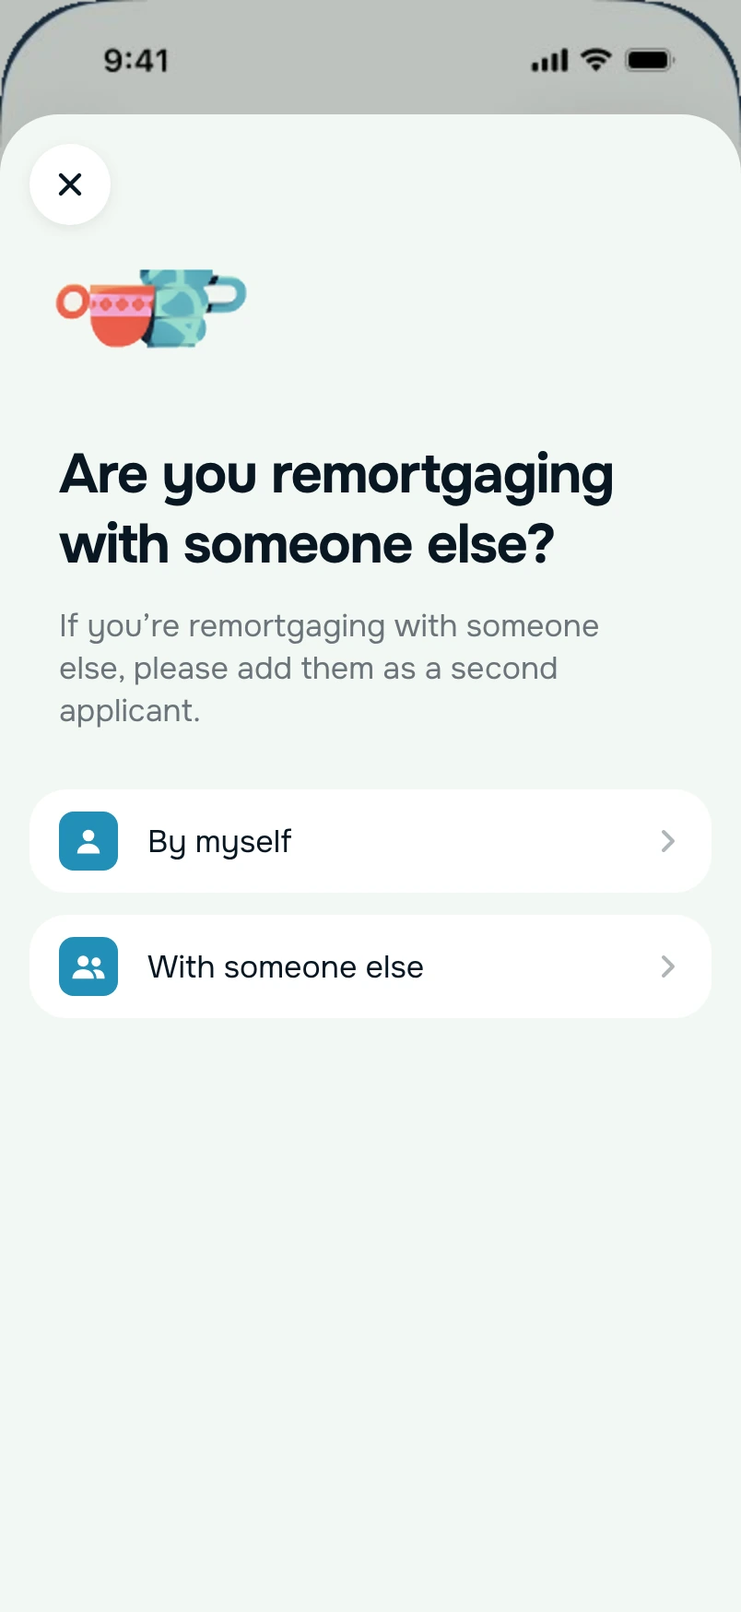
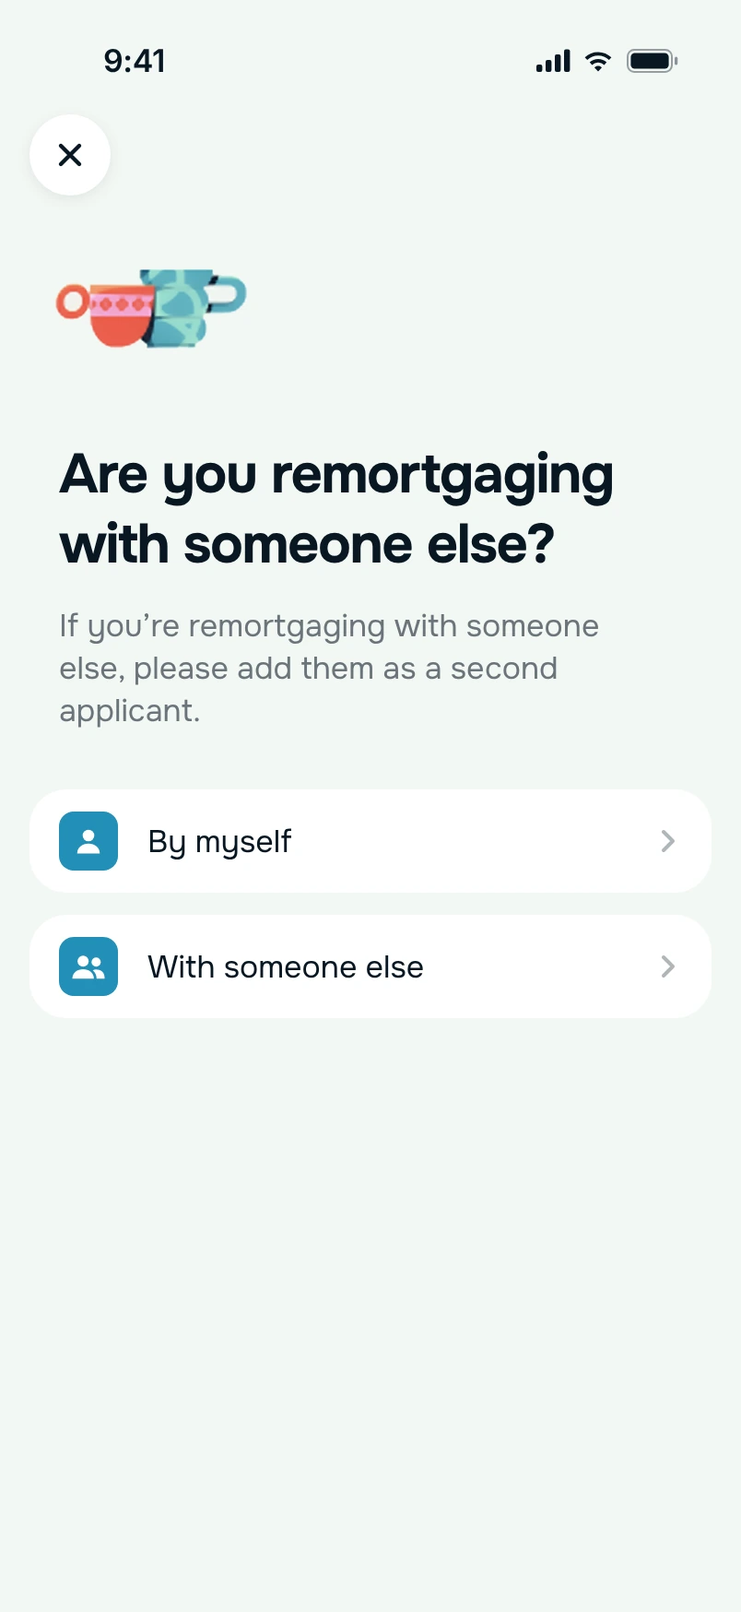
Remortgage deck: slide 9 onboarding screens full screen, no modal
Claude-Session: https://claude.ai/code/session_019ui8k763ghSzq4U6arn5bM

Changed region(s): [[0.0, 0.0, 1.0, 0.1236]]

diff --git a/remortgage-presentation/present.html b/remortgage-presentation/present.html
@@ -9,11 +9,11 @@
 <link rel="preconnect" href="https://fonts.googleapis.com">
 <link rel="preconnect" href="https://fonts.gstatic.com" crossorigin>
 <link href="https://fonts.googleapis.com/css2?family=DM+Sans:opsz,wght@9..40,400;9..40,500;9..40,600;9..40,700;9..40,800&family=Fragment+Mono&display=swap" rel="stylesheet">
-<link rel="stylesheet" href="styles.css?v=197">
-<link rel="stylesheet" href="deck.css?v=197">
-<link rel="stylesheet" href="monzo.css?v=197">
+<link rel="stylesheet" href="styles.css?v=198">
+<link rel="stylesheet" href="deck.css?v=198">
+<link rel="stylesheet" href="monzo.css?v=198">
 <link rel="preconnect" href="https://images.ctfassets.net">
-<script src="present.js?v=197" defer></script>
+<script src="present.js?v=198" defer></script>
 <style>
 body.present{--bar:52px;background:#112231;grid-template-rows:minmax(0,1fr) auto;height:100svh;min-height:0;overflow:hidden}
 .present .topbar,.present .slide-caption,.present .arrow,.present .notes-bottom,.present .notes-sheet{display:none!important}
@@ -110,7 +110,7 @@ body.present{--bar:52px;background:#112231;grid-template-rows:minmax(0,1fr) auto
 <div class="vr" data-vr><i class="vr-glow" aria-hidden="true"></i><button class="vr-ph" type="button" style="--i:0" data-tap="" aria-label="Screen 1 of 10: Your home: your deal ends in 6 months, find a new deal"><span class="vr-rise"><span class="vr-dev"><span class="bz"><span class="bz-screen"><span class="vr-st"><span class="vr-sc" data-d="1"><img class="bz-anim vr-base" src="assets/img/vis-01.webp?v=1" alt="Your home: your deal ends in 6 months, find a new deal" decoding="async"><img class="bz-anim vr-fl vr-fl-float" src="assets/img/vr/v01-ill0.webp?v=1" alt="" style="left:350px;top:300px;width:220px;animation-delay:-0.0s"></span></span></span></span></span><i class="vr-bar"><i></i></i></span></button><button class="vr-ph" type="button" style="--i:1" data-tap=".5,.913" aria-label="Screen 2 of 10: Your deal ends in September: example deals based on what we know"><span class="vr-rise"><span class="vr-dev"><span class="bz"><span class="bz-screen"><span class="vr-st"><span class="vr-sc" data-d="1316"><img class="bz-anim vr-base" src="assets/img/vr/v02-base.webp" alt="Your deal ends in September: example deals based on what we know" decoding="async"><span class="vr-row" style="top:973.8px;height:275.6px;background:#f2f8f3"><img class="bz-anim vr-ri" src="assets/img/vr/v02-row-a.webp?v=1" alt="" style="width:1710px" data-dx="1110"></span><span class="vr-row" style="top:1773.8px;height:232.1px;background:#f2f8f3"><img class="bz-anim vr-ri" src="assets/img/vr/v02-row-b.webp?v=1" alt="" style="width:1447px" data-dx="0"></span><img class="bz-anim vr-fl vr-fl-bob" src="assets/img/vr/v02-logo0.webp?v=1" alt="" style="left:67.9px;top:162.6px;width:100px;animation-delay:-0.0s"><img class="bz-anim vr-fl vr-fl-bob" src="assets/img/vr/v02-logo1.webp?v=1" alt="" style="left:361.1px;top:132.8px;width:98px;animation-delay:-0.45s"><img class="bz-anim vr-fl vr-fl-bob" src="assets/img/vr/v02-logo2.webp?v=1" alt="" style="left:466.4px;top:228.2px;width:76px;animation-delay:-0.9s"><img class="bz-anim vr-fl vr-fl-bob" src="assets/img/vr/v02-logo3.webp?v=1" alt="" style="left:91.6px;top:305.3px;width:71px;animation-delay:-1.35s"></span><img class="bz-anim vr-ft" src="assets/img/vis-status.webp?v=1" alt="" style="height:84px"><img class="bz-anim vr-fb" src="assets/img/vr/v02-foot.webp?v=1" alt="" style="height:284px"></span></span></span></span><i class="vr-bar"><i></i></i></span></button><button class="vr-ph" type="button" style="--i:2" data-tap=".2,.565" aria-label="Screen 3 of 10: How would you like to proceed: speak to an expert, or get a recommendation first"><span class="vr-rise"><span class="vr-dev"><span class="bz"><span class="bz-screen"><span class="vr-st"><span class="vr-sc" data-d="0"><img class="bz-anim vr-base" src="assets/img/vis-03.webp?v=1" alt="How would you like to proceed: speak to an expert, or get a recommendation first" decoding="async"><img class="bz-anim vr-fl vr-fl-float" src="assets/img/vr/v03-ill0.webp?v=1" alt="" style="left:352px;top:560px;width:196px;animation-delay:-0.0s"><img class="bz-anim vr-fl vr-fl-float" src="assets/img/vr/v03-ill1.webp?v=1" alt="" style="left:343px;top:940px;width:217px;animation-delay:-0.7s"></span></span></span></span></span><i class="vr-bar"><i></i></i></span></button><button class="vr-ph" type="button" style="--i:3" data-tap="0.21,0.83" aria-label="Screen 4 of 10: Let’s take a quick look at your info: pre-filled details to review"><span class="vr-rise"><span class="vr-dev"><span class="bz"><span class="bz-screen"><span class="vr-st"><span class="vr-sc" data-d="71"><img class="bz-anim vr-base" src="assets/img/vis-04.webp?v=1" alt="Let’s take a quick look at your info: pre-filled details to review" decoding="async"><img class="bz-anim vr-fl vr-fl-float" src="assets/img/vr/v04-ill0.webp?v=1" alt="" style="left:350px;top:488px;width:198px;animation-delay:-0.0s"><img class="bz-anim vr-fl vr-fl-float" src="assets/img/vr/v04-ill1.webp?v=1" alt="" style="left:340px;top:698px;width:212px;animation-delay:-0.7s"><img class="bz-anim vr-fl vr-fl-float" src="assets/img/vr/v04-ill2.webp?v=1" alt="" style="left:390px;top:975px;width:170px;animation-delay:-1.4s"></span><img class="bz-anim vr-ft" src="assets/img/vis-status.webp?v=1" alt="" style="height:84px"></span></span></span></span><i class="vr-bar"><i></i></i></span></button><button class="vr-ph" type="button" style="--i:4" data-tap=".42,.525" aria-label="Screen 5 of 10: Your adviser, Jane: book a call or send a message"><span class="vr-rise"><span class="vr-dev"><span class="bz"><span class="bz-screen"><span class="vr-st"><span class="vr-sc" data-d="144"><img class="bz-anim vr-base" src="assets/img/vis-05.webp?v=1" alt="Your adviser, Jane: book a call or send a message" decoding="async"></span><img class="bz-anim vr-ft" src="assets/img/vis-status.webp?v=1" alt="" style="height:84px"></span></span></span></span><i class="vr-bar"><i></i></i></span></button><button class="vr-ph" type="button" style="--i:5" data-tap=".89,.653" aria-label="Screen 6 of 10: Chat with the Monzo assistant and your adviser"><span class="vr-rise"><span class="vr-dev"><span class="bz"><span class="bz-screen"><span class="vr-st"><span class="vr-sc" data-d="1"><img class="bz-anim vr-base" src="assets/img/vis-06.webp?v=1" alt="Chat with the Monzo assistant and your adviser" decoding="async"></span></span></span></span></span><i class="vr-bar"><i></i></i></span></button><button class="vr-ph" type="button" style="--i:6" data-tap=".21,.666" aria-label="Screen 7 of 10: Your personalised mortgage recommendations"><span class="vr-rise"><span class="vr-dev"><span class="bz"><span class="bz-screen"><span class="vr-st"><span class="vr-sc" data-d="167"><img class="bz-anim vr-base" src="assets/img/vr/v07-base.webp" alt="Your personalised mortgage recommendations" decoding="async"><span class="vr-row" style="top:535.9px;height:549.6px;background:#f2f8f3"><img class="bz-anim vr-ri" src="assets/img/vr/v07-row.webp?v=1" alt="" style="width:1289px" data-dx="689"></span></span><img class="bz-anim vr-ft" src="assets/img/vr/v07-top.webp" alt="" style="height:150px"></span></span></span></span><i class="vr-bar"><i></i></i></span></button><button class="vr-ph" type="button" style="--i:7" data-tap=".377,.49" aria-label="Screen 8 of 10: Your remortgage process: steps and what happens next"><span class="vr-rise"><span class="vr-dev"><span class="bz"><span class="bz-screen"><span class="vr-st"><span class="vr-sc" data-d="605"><img class="bz-anim vr-base" src="assets/img/vis-08.webp?v=1" alt="Your remortgage process: steps and what happens next" decoding="async"></span><img class="bz-anim vr-ft" src="assets/img/vis-status.webp?v=1" alt="" style="height:84px"></span></span></span></span><i class="vr-bar"><i></i></i></span></button><button class="vr-ph" type="button" style="--i:8" data-tap=".3,.572" aria-label="Screen 9 of 10: Documents needed by Barclays, uploaded from your phone"><span class="vr-rise"><span class="vr-dev"><span class="bz"><span class="bz-screen"><span class="vr-st"><span class="vr-sc" data-d="336"><img class="bz-anim vr-base" src="assets/img/vis-09.webp?v=1" alt="Documents needed by Barclays, uploaded from your phone" decoding="async"><img class="bz-anim vr-fl vr-fl-float" src="assets/img/vr/v09-ill0.webp?v=1" alt="" style="left:35px;top:175px;width:155px;animation-delay:-0.0s"></span><img class="bz-anim vr-ft" src="assets/img/vis-status.webp?v=1" alt="" style="height:84px"></span></span></span></span><i class="vr-bar"><i></i></i></span></button><button class="vr-ph" type="button" style="--i:9" data-tap="" aria-label="Screen 10 of 10: Your remortgage with Barclays is completed"><span class="vr-rise"><span class="vr-dev"><span class="bz"><span class="bz-screen"><span class="vr-st"><span class="vr-sc" data-d="0"><img class="bz-anim vr-base" src="assets/img/vis-10.webp?v=1" alt="Your remortgage with Barclays is completed" decoding="async"></span></span></span></span></span><i class="vr-bar"><i></i></i></span></button></div><canvas class="vr-fx" aria-hidden="true"></canvas><button class="vr-pp a" style="--d:6" type="button" aria-pressed="false"><i class="vr-pp-i" aria-hidden="true"></i><span class="vr-pp-t">Pause</span></button><span class="vr-links a" style="--d:6"><a class="fig-link ghost" href="https://monzo.com/blog/slowing-down-to-speed-up-how-a-2-month-engineering-pause-rebooted-our-mortgage-strategy" target="_blank" rel="noopener">Read the Monzo blog post ↗</a><a class="fig-link ghost" href="https://www.figma.com/design/auJMcyTUagjoT1qWHXPAzR/Remortgage-vision?node-id=604-26556&amp;t=594yZfradgzQ7vAW-1" target="_blank" rel="noopener">See the vision in Figma ↗</a></span><script src="vision-reel.js?v=3" defer></script></section>
 <section class="slide dark was-light" data-n="08" data-k="plan"><div class="eyebrow a mz-kicker">The vision</div><h1 class="a" style="--d:1">I turned the vision into bets the team could ship</h1>
 <div class="road road2"><div class="road-col a" style="--d:3"><div class="road-art"><img src="assets/img/spot-checklist.png" alt=""></div><div class="road-body"><span class="road-step">Now</span><p class="road-sub">What we could start straight away</p><ul class="road-list"><li>Onboarding to Habito</li><li>A progress tracker closer to real time</li><li>Pre-fill with data we already hold</li></ul></div></div><i class="road-arrow a" style="--d:4"></i><div class="road-col a" style="--d:4"><div class="road-art"><img src="assets/img/spot-form.png" alt=""></div><div class="road-body"><span class="road-step">Next</span><p class="road-sub">What needed more work</p><ul class="road-list"><li>Open the door to people without a connected mortgage</li><li>Our own application form</li><li>Estimated deals</li><li>Recommendations in Monzo, view only</li></ul></div></div><i class="road-arrow a" style="--d:5"></i><div class="road-col a" style="--d:5"><div class="road-art"><img src="assets/img/spot-support.png" alt=""></div><div class="road-body"><span class="road-step">Later</span><p class="road-sub">The big things</p><ul class="road-list"><li>Recommendations in Monzo, you can accept them</li><li>Adviser chat in the app*</li><li>Document upload*</li></ul></div></div></div><p class="note a road-foot" style="--d:7">* Moved back again later in 2026: we needed to grow faster, so the focus moved to first-time buyers.</p></section>
-<section class="slide dark was-light" data-n="09" data-k="honb"><div class="eyebrow a mz-kicker">The vision</div><h1 class="a" style="--d:1">We designed the onboarding to Habito</h1><div class="honb"><div class="role-ph a" style="--d:3"><div class="bz" style="width:250px"><span class="bz-screen"><img class="ir-scroll" style="--t:-44.6%" src="assets/img/honb-1.webp?v=3" alt="Find a mortgage with free expert help: Monzo introduces you to Habito, with how we’ll help and what’s good to know"></span></div><p><b>Value proposition</b> · the first page</p></div><div class="role-ph a" style="--d:4"><div class="bz" style="width:250px"><span class="bz-screen"><img src="assets/img/honb-2.webp?v=3" alt="Habito by Monzo: let’s set up your account with the email Monzo already has, then continue"></span></div><p><b>Your Habito account</b> · set up with your Monzo email</p></div><div class="role-ph a" style="--d:5"><div class="bz" style="width:250px"><span class="bz-screen"><img src="assets/img/honb-3.webp?v=3" alt="Are you remortgaging with someone else? By myself, or with someone else"></span></div><p><b>Someone else?</b> · add a second applicant</p></div><div class="role-ph a" style="--d:6"><div class="bz" style="width:250px"><span class="bz-screen"><img src="assets/img/honb-4.webp?v=3" alt="You’re all set: we’ll now take you to Habito to fill in a few details"></span></div><p><b>You’re all set</b> · then on to Habito</p></div></div></section>
+<section class="slide dark was-light" data-n="09" data-k="honb"><div class="eyebrow a mz-kicker">The vision</div><h1 class="a" style="--d:1">We designed the onboarding to Habito</h1><div class="honb"><div class="role-ph a" style="--d:3"><div class="bz" style="width:250px"><span class="bz-screen"><img class="ir-scroll" style="--t:-44.6%" src="assets/img/honb-1.webp?v=4" alt="Find a mortgage with free expert help: Monzo introduces you to Habito, with how we’ll help and what’s good to know"></span></div><p><b>Value proposition</b> · the first page</p></div><div class="role-ph a" style="--d:4"><div class="bz" style="width:250px"><span class="bz-screen"><img src="assets/img/honb-2.webp?v=4" alt="Habito by Monzo: let’s set up your account with the email Monzo already has, then continue"></span></div><p><b>Your Habito account</b> · set up with your Monzo email</p></div><div class="role-ph a" style="--d:5"><div class="bz" style="width:250px"><span class="bz-screen"><img src="assets/img/honb-3.webp?v=4" alt="Are you remortgaging with someone else? By myself, or with someone else"></span></div><p><b>Someone else?</b> · add a second applicant</p></div><div class="role-ph a" style="--d:6"><div class="bz" style="width:250px"><span class="bz-screen"><img src="assets/img/honb-4.webp?v=4" alt="You’re all set: we’ll now take you to Habito to fill in a few details"></span></div><p><b>You’re all set</b> · then on to Habito</p></div></div></section>
 <section class="slide dark was-light" data-n="10" data-k="walk">
 <div class="split" style="grid-template-columns:1fr 600px">
   <div>

diff --git a/remortgage-presentation/index.html b/remortgage-presentation/index.html
@@ -9,11 +9,11 @@
 <link rel="preconnect" href="https://fonts.googleapis.com">
 <link rel="preconnect" href="https://fonts.gstatic.com" crossorigin>
 <link href="https://fonts.googleapis.com/css2?family=DM+Sans:opsz,wght@9..40,400;9..40,500;9..40,600;9..40,700;9..40,800&family=Fragment+Mono&display=swap" rel="stylesheet">
-<link rel="stylesheet" href="styles.css?v=197">
-<link rel="stylesheet" href="deck.css?v=197">
-<link rel="stylesheet" href="monzo.css?v=197">
+<link rel="stylesheet" href="styles.css?v=198">
+<link rel="stylesheet" href="deck.css?v=198">
+<link rel="stylesheet" href="monzo.css?v=198">
 <link rel="preconnect" href="https://images.ctfassets.net">
-<script src="slides.js?v=197" defer></script>
+<script src="slides.js?v=198" defer></script>
 </head>
 <body>
 <header class="topbar">
@@ -98,7 +98,7 @@
 <div class="vr" data-vr><i class="vr-glow" aria-hidden="true"></i><button class="vr-ph" type="button" style="--i:0" data-tap="" aria-label="Screen 1 of 10: Your home: your deal ends in 6 months, find a new deal"><span class="vr-rise"><span class="vr-dev"><span class="bz"><span class="bz-screen"><span class="vr-st"><span class="vr-sc" data-d="1"><img class="bz-anim vr-base" src="assets/img/vis-01.webp?v=1" alt="Your home: your deal ends in 6 months, find a new deal" decoding="async"><img class="bz-anim vr-fl vr-fl-float" src="assets/img/vr/v01-ill0.webp?v=1" alt="" style="left:350px;top:300px;width:220px;animation-delay:-0.0s"></span></span></span></span></span><i class="vr-bar"><i></i></i></span></button><button class="vr-ph" type="button" style="--i:1" data-tap=".5,.913" aria-label="Screen 2 of 10: Your deal ends in September: example deals based on what we know"><span class="vr-rise"><span class="vr-dev"><span class="bz"><span class="bz-screen"><span class="vr-st"><span class="vr-sc" data-d="1316"><img class="bz-anim vr-base" src="assets/img/vr/v02-base.webp" alt="Your deal ends in September: example deals based on what we know" decoding="async"><span class="vr-row" style="top:973.8px;height:275.6px;background:#f2f8f3"><img class="bz-anim vr-ri" src="assets/img/vr/v02-row-a.webp?v=1" alt="" style="width:1710px" data-dx="1110"></span><span class="vr-row" style="top:1773.8px;height:232.1px;background:#f2f8f3"><img class="bz-anim vr-ri" src="assets/img/vr/v02-row-b.webp?v=1" alt="" style="width:1447px" data-dx="0"></span><img class="bz-anim vr-fl vr-fl-bob" src="assets/img/vr/v02-logo0.webp?v=1" alt="" style="left:67.9px;top:162.6px;width:100px;animation-delay:-0.0s"><img class="bz-anim vr-fl vr-fl-bob" src="assets/img/vr/v02-logo1.webp?v=1" alt="" style="left:361.1px;top:132.8px;width:98px;animation-delay:-0.45s"><img class="bz-anim vr-fl vr-fl-bob" src="assets/img/vr/v02-logo2.webp?v=1" alt="" style="left:466.4px;top:228.2px;width:76px;animation-delay:-0.9s"><img class="bz-anim vr-fl vr-fl-bob" src="assets/img/vr/v02-logo3.webp?v=1" alt="" style="left:91.6px;top:305.3px;width:71px;animation-delay:-1.35s"></span><img class="bz-anim vr-ft" src="assets/img/vis-status.webp?v=1" alt="" style="height:84px"><img class="bz-anim vr-fb" src="assets/img/vr/v02-foot.webp?v=1" alt="" style="height:284px"></span></span></span></span><i class="vr-bar"><i></i></i></span></button><button class="vr-ph" type="button" style="--i:2" data-tap=".2,.565" aria-label="Screen 3 of 10: How would you like to proceed: speak to an expert, or get a recommendation first"><span class="vr-rise"><span class="vr-dev"><span class="bz"><span class="bz-screen"><span class="vr-st"><span class="vr-sc" data-d="0"><img class="bz-anim vr-base" src="assets/img/vis-03.webp?v=1" alt="How would you like to proceed: speak to an expert, or get a recommendation first" decoding="async"><img class="bz-anim vr-fl vr-fl-float" src="assets/img/vr/v03-ill0.webp?v=1" alt="" style="left:352px;top:560px;width:196px;animation-delay:-0.0s"><img class="bz-anim vr-fl vr-fl-float" src="assets/img/vr/v03-ill1.webp?v=1" alt="" style="left:343px;top:940px;width:217px;animation-delay:-0.7s"></span></span></span></span></span><i class="vr-bar"><i></i></i></span></button><button class="vr-ph" type="button" style="--i:3" data-tap="0.21,0.83" aria-label="Screen 4 of 10: Let’s take a quick look at your info: pre-filled details to review"><span class="vr-rise"><span class="vr-dev"><span class="bz"><span class="bz-screen"><span class="vr-st"><span class="vr-sc" data-d="71"><img class="bz-anim vr-base" src="assets/img/vis-04.webp?v=1" alt="Let’s take a quick look at your info: pre-filled details to review" decoding="async"><img class="bz-anim vr-fl vr-fl-float" src="assets/img/vr/v04-ill0.webp?v=1" alt="" style="left:350px;top:488px;width:198px;animation-delay:-0.0s"><img class="bz-anim vr-fl vr-fl-float" src="assets/img/vr/v04-ill1.webp?v=1" alt="" style="left:340px;top:698px;width:212px;animation-delay:-0.7s"><img class="bz-anim vr-fl vr-fl-float" src="assets/img/vr/v04-ill2.webp?v=1" alt="" style="left:390px;top:975px;width:170px;animation-delay:-1.4s"></span><img class="bz-anim vr-ft" src="assets/img/vis-status.webp?v=1" alt="" style="height:84px"></span></span></span></span><i class="vr-bar"><i></i></i></span></button><button class="vr-ph" type="button" style="--i:4" data-tap=".42,.525" aria-label="Screen 5 of 10: Your adviser, Jane: book a call or send a message"><span class="vr-rise"><span class="vr-dev"><span class="bz"><span class="bz-screen"><span class="vr-st"><span class="vr-sc" data-d="144"><img class="bz-anim vr-base" src="assets/img/vis-05.webp?v=1" alt="Your adviser, Jane: book a call or send a message" decoding="async"></span><img class="bz-anim vr-ft" src="assets/img/vis-status.webp?v=1" alt="" style="height:84px"></span></span></span></span><i class="vr-bar"><i></i></i></span></button><button class="vr-ph" type="button" style="--i:5" data-tap=".89,.653" aria-label="Screen 6 of 10: Chat with the Monzo assistant and your adviser"><span class="vr-rise"><span class="vr-dev"><span class="bz"><span class="bz-screen"><span class="vr-st"><span class="vr-sc" data-d="1"><img class="bz-anim vr-base" src="assets/img/vis-06.webp?v=1" alt="Chat with the Monzo assistant and your adviser" decoding="async"></span></span></span></span></span><i class="vr-bar"><i></i></i></span></button><button class="vr-ph" type="button" style="--i:6" data-tap=".21,.666" aria-label="Screen 7 of 10: Your personalised mortgage recommendations"><span class="vr-rise"><span class="vr-dev"><span class="bz"><span class="bz-screen"><span class="vr-st"><span class="vr-sc" data-d="167"><img class="bz-anim vr-base" src="assets/img/vr/v07-base.webp" alt="Your personalised mortgage recommendations" decoding="async"><span class="vr-row" style="top:535.9px;height:549.6px;background:#f2f8f3"><img class="bz-anim vr-ri" src="assets/img/vr/v07-row.webp?v=1" alt="" style="width:1289px" data-dx="689"></span></span><img class="bz-anim vr-ft" src="assets/img/vr/v07-top.webp" alt="" style="height:150px"></span></span></span></span><i class="vr-bar"><i></i></i></span></button><button class="vr-ph" type="button" style="--i:7" data-tap=".377,.49" aria-label="Screen 8 of 10: Your remortgage process: steps and what happens next"><span class="vr-rise"><span class="vr-dev"><span class="bz"><span class="bz-screen"><span class="vr-st"><span class="vr-sc" data-d="605"><img class="bz-anim vr-base" src="assets/img/vis-08.webp?v=1" alt="Your remortgage process: steps and what happens next" decoding="async"></span><img class="bz-anim vr-ft" src="assets/img/vis-status.webp?v=1" alt="" style="height:84px"></span></span></span></span><i class="vr-bar"><i></i></i></span></button><button class="vr-ph" type="button" style="--i:8" data-tap=".3,.572" aria-label="Screen 9 of 10: Documents needed by Barclays, uploaded from your phone"><span class="vr-rise"><span class="vr-dev"><span class="bz"><span class="bz-screen"><span class="vr-st"><span class="vr-sc" data-d="336"><img class="bz-anim vr-base" src="assets/img/vis-09.webp?v=1" alt="Documents needed by Barclays, uploaded from your phone" decoding="async"><img class="bz-anim vr-fl vr-fl-float" src="assets/img/vr/v09-ill0.webp?v=1" alt="" style="left:35px;top:175px;width:155px;animation-delay:-0.0s"></span><img class="bz-anim vr-ft" src="assets/img/vis-status.webp?v=1" alt="" style="height:84px"></span></span></span></span><i class="vr-bar"><i></i></i></span></button><button class="vr-ph" type="button" style="--i:9" data-tap="" aria-label="Screen 10 of 10: Your remortgage with Barclays is completed"><span class="vr-rise"><span class="vr-dev"><span class="bz"><span class="bz-screen"><span class="vr-st"><span class="vr-sc" data-d="0"><img class="bz-anim vr-base" src="assets/img/vis-10.webp?v=1" alt="Your remortgage with Barclays is completed" decoding="async"></span></span></span></span></span><i class="vr-bar"><i></i></i></span></button></div><canvas class="vr-fx" aria-hidden="true"></canvas><button class="vr-pp a" style="--d:6" type="button" aria-pressed="false"><i class="vr-pp-i" aria-hidden="true"></i><span class="vr-pp-t">Pause</span></button><span class="vr-links a" style="--d:6"><a class="fig-link ghost" href="https://monzo.com/blog/slowing-down-to-speed-up-how-a-2-month-engineering-pause-rebooted-our-mortgage-strategy" target="_blank" rel="noopener">Read the Monzo blog post ↗</a><a class="fig-link ghost" href="https://www.figma.com/design/auJMcyTUagjoT1qWHXPAzR/Remortgage-vision?node-id=604-26556&amp;t=594yZfradgzQ7vAW-1" target="_blank" rel="noopener">See the vision in Figma ↗</a></span><script src="vision-reel.js?v=3" defer></script></section>
 <section class="slide dark was-light" data-n="08" data-k="plan"><div class="eyebrow a mz-kicker">The vision</div><h1 class="a" style="--d:1">I turned the vision into bets the team could ship</h1>
 <div class="road road2"><div class="road-col a" style="--d:3"><div class="road-art"><img src="assets/img/spot-checklist.png" alt=""></div><div class="road-body"><span class="road-step">Now</span><p class="road-sub">What we could start straight away</p><ul class="road-list"><li>Onboarding to Habito</li><li>A progress tracker closer to real time</li><li>Pre-fill with data we already hold</li></ul></div></div><i class="road-arrow a" style="--d:4"></i><div class="road-col a" style="--d:4"><div class="road-art"><img src="assets/img/spot-form.png" alt=""></div><div class="road-body"><span class="road-step">Next</span><p class="road-sub">What needed more work</p><ul class="road-list"><li>Open the door to people without a connected mortgage</li><li>Our own application form</li><li>Estimated deals</li><li>Recommendations in Monzo, view only</li></ul></div></div><i class="road-arrow a" style="--d:5"></i><div class="road-col a" style="--d:5"><div class="road-art"><img src="assets/img/spot-support.png" alt=""></div><div class="road-body"><span class="road-step">Later</span><p class="road-sub">The big things</p><ul class="road-list"><li>Recommendations in Monzo, you can accept them</li><li>Adviser chat in the app*</li><li>Document upload*</li></ul></div></div></div><p class="note a road-foot" style="--d:7">* Moved back again later in 2026: we needed to grow faster, so the focus moved to first-time buyers.</p></section>
-<section class="slide dark was-light" data-n="09" data-k="honb"><div class="eyebrow a mz-kicker">The vision</div><h1 class="a" style="--d:1">We designed the onboarding to Habito</h1><div class="honb"><div class="role-ph a" style="--d:3"><div class="bz" style="width:250px"><span class="bz-screen"><img class="ir-scroll" style="--t:-44.6%" src="assets/img/honb-1.webp?v=3" alt="Find a mortgage with free expert help: Monzo introduces you to Habito, with how we’ll help and what’s good to know"></span></div><p><b>Value proposition</b> · the first page</p></div><div class="role-ph a" style="--d:4"><div class="bz" style="width:250px"><span class="bz-screen"><img src="assets/img/honb-2.webp?v=3" alt="Habito by Monzo: let’s set up your account with the email Monzo already has, then continue"></span></div><p><b>Your Habito account</b> · set up with your Monzo email</p></div><div class="role-ph a" style="--d:5"><div class="bz" style="width:250px"><span class="bz-screen"><img src="assets/img/honb-3.webp?v=3" alt="Are you remortgaging with someone else? By myself, or with someone else"></span></div><p><b>Someone else?</b> · add a second applicant</p></div><div class="role-ph a" style="--d:6"><div class="bz" style="width:250px"><span class="bz-screen"><img src="assets/img/honb-4.webp?v=3" alt="You’re all set: we’ll now take you to Habito to fill in a few details"></span></div><p><b>You’re all set</b> · then on to Habito</p></div></div></section>
+<section class="slide dark was-light" data-n="09" data-k="honb"><div class="eyebrow a mz-kicker">The vision</div><h1 class="a" style="--d:1">We designed the onboarding to Habito</h1><div class="honb"><div class="role-ph a" style="--d:3"><div class="bz" style="width:250px"><span class="bz-screen"><img class="ir-scroll" style="--t:-44.6%" src="assets/img/honb-1.webp?v=4" alt="Find a mortgage with free expert help: Monzo introduces you to Habito, with how we’ll help and what’s good to know"></span></div><p><b>Value proposition</b> · the first page</p></div><div class="role-ph a" style="--d:4"><div class="bz" style="width:250px"><span class="bz-screen"><img src="assets/img/honb-2.webp?v=4" alt="Habito by Monzo: let’s set up your account with the email Monzo already has, then continue"></span></div><p><b>Your Habito account</b> · set up with your Monzo email</p></div><div class="role-ph a" style="--d:5"><div class="bz" style="width:250px"><span class="bz-screen"><img src="assets/img/honb-3.webp?v=4" alt="Are you remortgaging with someone else? By myself, or with someone else"></span></div><p><b>Someone else?</b> · add a second applicant</p></div><div class="role-ph a" style="--d:6"><div class="bz" style="width:250px"><span class="bz-screen"><img src="assets/img/honb-4.webp?v=4" alt="You’re all set: we’ll now take you to Habito to fill in a few details"></span></div><p><b>You’re all set</b> · then on to Habito</p></div></div></section>
 <section class="slide dark was-light" data-n="10" data-k="walk">
 <div class="split" style="grid-template-columns:1fr 600px">
   <div>

diff --git a/remortgage-presentation/15min-present.html b/remortgage-presentation/15min-present.html
@@ -9,11 +9,11 @@
 <link rel="preconnect" href="https://fonts.googleapis.com">
 <link rel="preconnect" href="https://fonts.gstatic.com" crossorigin>
 <link href="https://fonts.googleapis.com/css2?family=DM+Sans:opsz,wght@9..40,400;9..40,500;9..40,600;9..40,700;9..40,800&family=Fragment+Mono&display=swap" rel="stylesheet">
-<link rel="stylesheet" href="styles.css?v=197">
-<link rel="stylesheet" href="deck.css?v=197">
-<link rel="stylesheet" href="monzo.css?v=197">
+<link rel="stylesheet" href="styles.css?v=198">
+<link rel="stylesheet" href="deck.css?v=198">
+<link rel="stylesheet" href="monzo.css?v=198">
 <link rel="preconnect" href="https://images.ctfassets.net">
-<script src="15min-present.js?v=197" defer></script>
+<script src="15min-present.js?v=198" defer></script>
 <style>
 body.present{--bar:52px;background:#112231;grid-template-rows:minmax(0,1fr) auto;height:100svh;min-height:0;overflow:hidden}
 .present .topbar,.present .slide-caption,.present .arrow,.present .notes-bottom,.present .notes-sheet{display:none!important}

diff --git a/remortgage-presentation/15min.html b/remortgage-presentation/15min.html
@@ -9,11 +9,11 @@
 <link rel="preconnect" href="https://fonts.googleapis.com">
 <link rel="preconnect" href="https://fonts.gstatic.com" crossorigin>
 <link href="https://fonts.googleapis.com/css2?family=DM+Sans:opsz,wght@9..40,400;9..40,500;9..40,600;9..40,700;9..40,800&family=Fragment+Mono&display=swap" rel="stylesheet">
-<link rel="stylesheet" href="styles.css?v=197">
-<link rel="stylesheet" href="deck.css?v=197">
-<link rel="stylesheet" href="monzo.css?v=197">
+<link rel="stylesheet" href="styles.css?v=198">
+<link rel="stylesheet" href="deck.css?v=198">
+<link rel="stylesheet" href="monzo.css?v=198">
 <link rel="preconnect" href="https://images.ctfassets.net">
-<script src="15min.js?v=197" defer></script>
+<script src="15min.js?v=198" defer></script>
 </head>
 <body>
 <header class="topbar">
